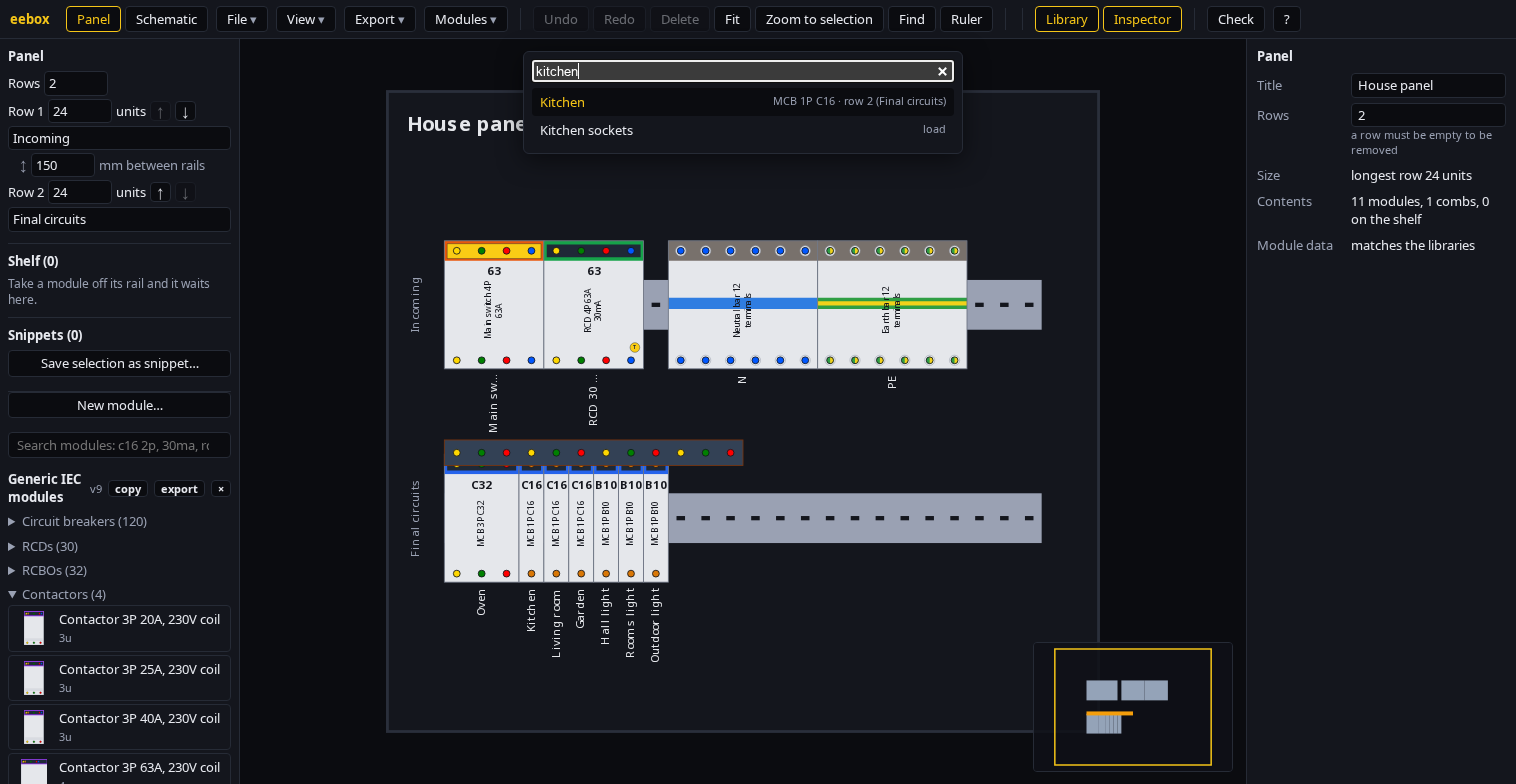
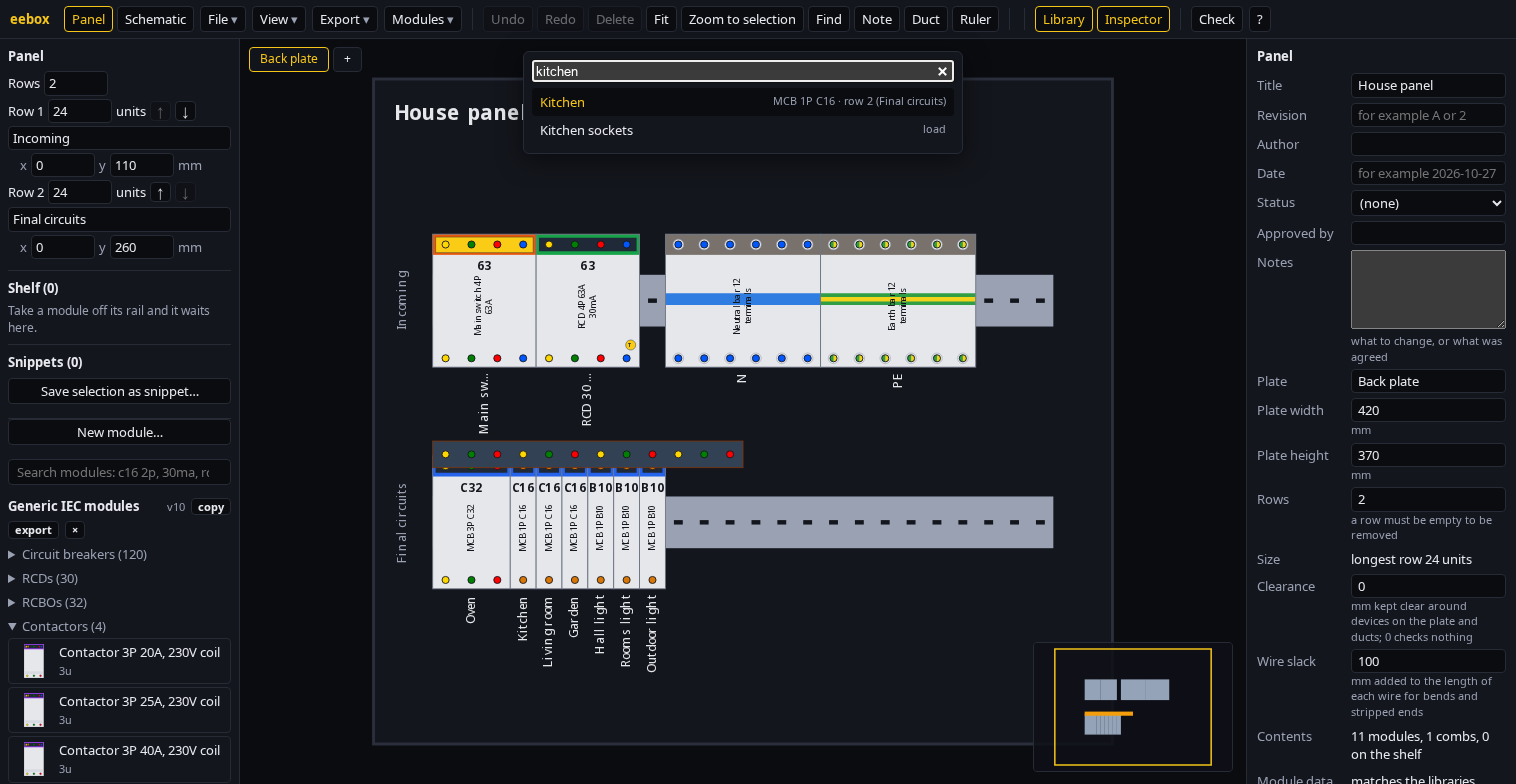
Retake the README screenshots and show the plate alignment and the context menu

diff --git a/README.md b/README.md
@@ -40,11 +40,15 @@ A transfer controller and two contactors switch a workshop to the generator when
 - **Control and signal wiring.** Besides phases, neutral, earth and 24 V, wires can carry analog signals (`SP`, `SN`, a 4-20 mA loop or a voltage), the shield of a cable (`SH`) and the two lines of a serial bus (`RA`, `RB`). They are a family of their own: a wire joins a signal to a signal only (or to a contact, `C`), never to mains or 24 V, and Check reports two different signal lines, or a line and a shield, on one net. A terminal block (kind `terminal`, such as the 12-way *Terminal strip* template) has a *Terminal schedule*: a row for each way with the other ends of its wires on the top and the bottom, in the Tables dialog, as *Export > Terminal schedule (CSV)* and on the print sheet with the connections. *Label the top terminals* and *Label the bottom terminals* in the inspector of a placed module number its terminals from a pattern such as `X1:{n}` or `DI{n}`, in order along the module; an empty pattern clears them.
 - **Several plates.** A panel has one or more mounting surfaces, such as the back plate and the doors of a cabinet, each with its own size in millimetres, rows, devices on the plate, ducts and notes; the tabs above the drawing choose which one is shown, *+* adds a plate and a double click renames it. A row, a device on the plate or a duct is moved to another plate in the inspector, and the wiring schematic is one for all of them. The frame of a drawing is its plate: what reaches outside it is an error in Check, and *Fit the plate to what is on it* sizes it. Picture exports are of the plate on view, the print sheet has a drawing for each plate, and the full-size print covers every plate.
 - **Devices on the plate and cable ducts.** A device made for the plate (*Mounting* in the module designer: plate or both), such as a soft starter, a drive or a meter, is dropped away from the rails and stands where it is put, in millimetres. While it is dragged it is drawn to the edges and centres of the other things, and the dashed lines show which. A device that clips on a rail still snaps to the rail; a plate device never does. *Duct* draws a cable duct between two corners; ducts have a size, a label and a place in the inspector, move with the mouse and the arrow keys, and are copied, deleted, compared and printed like the rest. Overlaps are not refused while arranging: Check lists two things standing on one place (an error, outlined in red), a loose device or duct on a rail, a device where it was not made to stand (plate or rail), and, when the panel's *Clearance* is set, loose devices and ducts that are closer to another thing than that (advice, outlined in amber). With one device or duct selected, lines show the distance to what is beside it on every side and to the left and top edge of the plate, also while it is dragged. A group moves by the kind of item that is grabbed: modules and combs along the rails, devices on the plate and ducts over the plate.
-- **Laying out a plate.** Select several devices and ducts (Shift-drag a rectangle) and the inspector aligns their edges or middles and spaces them evenly. *View > Grid* draws devices to a grid of 5, 10 or 25 mm; edges of other things win over the grid, and holding Alt while dragging places a device freely. A group chosen on the panel is shown as chosen on the schematic, and the other way round.
+- **Laying out a plate.** Select several devices and ducts (Shift-drag a rectangle) and the inspector aligns their edges or middles and spaces them evenly. *View > Grid* draws devices to a grid of 5, 10 or 25 mm; edges of other things win over the grid, and holding Alt while dragging places a device freely. *View > Distances to the neighbours* switches off the lines that show the distance from the selected thing to its neighbours. A group chosen on the panel is shown as chosen on the schematic, and the other way round.
 - **Wire lengths and duct fill.** Each wire between two modules on the panel gets an estimated length (the distance between its terminals along and across the plate, plus a slack that the panel sets; between plates, the way out to the nearest edge plus a fixed allowance), shown in the wire list as *Run (mm)*. A wire can be said to run in a duct and a duct can be given a depth; the inspector then shows how full the duct is, and Check advises when it is over half full. Wires are assigned by hand, not routed, and the conductor diameters are typical values that are not verified.
+  ![Devices on a plate chosen together, with the alignment buttons](docs/images/plate-align.png)
+
 - **Context menu.** A right click (or the menu key, or Shift+F10) opens a menu of what is under the pointer, on the panel and on the schematic: take a module off its rail, copy, duplicate, delete, align devices on a plate, chain nodes, undo and redo, with the keys shown beside each item. It is an HTML menu, not the browser's, and it does only what the toolbar, the inspector and the keys already do.
+  ![The context menu of a module on a rail](docs/images/context-menu.png)
+
 - **Cut list and wire numbers.** *Export > Cut list (CSV)*, the *Tables* dialog and the print sheet total the wires by cross-section (with a 10 % reserve on the estimated lengths), the DIN rails and the cable ducts. *Nodes > Number the wires…* gives every wire that has no label a number from a pattern such as `W{n}`; labels that are already there stay, and the numbers go on after the highest one in use.
-- **Controller inputs and outputs.** *Export > Inputs and outputs (CSV)*, the *Tables* dialog and the print sheet list every terminal of the controllers with the label of the channel and where its wire goes.
+- **Controller inputs and outputs.** *Export > Inputs and outputs (CSV)*, the *Tables* dialog and the print sheet list every terminal of the controllers with its name, the label it was given and where its wire goes. Fill in the Label column of the CSV and read it back with *File > Import terminal labels (CSV)…* (a table of `Device`, `Terminal` and `Label`; a blank label takes the label away, and a row that does not fit is skipped with the reason).
 - **Poles and conductors.** A module has real terminals: L, L1-L3, N, PE and PEN per pole, top and bottom, and control terminals: relay contacts (`C`), which take a wire of any kind, and 24 V DC, which cannot be wired to mains conductors. Neutral and earth bars have custom widths, comb bus bars distribute phases to the modules under them.
 - **Faces of the modules.** A module can carry a drawing of its face (`art` in the library): lines, rectangles, ellipses, polylines and text that follow the width of a resizable copy by staying at the left, right or middle, stretching, or repeating as tiles, so a terminal block grows its screws with its width. The *Face* mode of the module designer draws them with the mouse: lines, rectangles, ellipses, polylines and text, moved and resized by their handles, with colours, line width, the way a shape follows the width and its place among the others set in fields, and the usual Undo. The designer turns a shape by a quarter or a half turn and flips it about its middle, and turns a text to any angle. *Export SVG* saves the face as an SVG file in millimetres, with the way each shape follows the width written in attributes of its own, and *Import SVG…* puts such a file, or any other, on the face of another module; the two together carry a drawing between modules. *Import SVG…* puts the drawing of an SVG file on the face, as lines, shapes, curves and text, shows what it would look like and says what it leaves out; the file is only read, never run. The bundled devices have faces, so a breaker, an RCD, a relay and a meter look different on the panel. The text of the drawings is set in a bundled font (Noto Sans, SIL Open Font License), which is also written into a saved SVG, so they look the same on every machine.
 - **A short name for the face.** A module has a `Name` for the palette and the parts list, and may have a *Short name*, up to 16 characters, which the face shows instead, where the long name does not fit.
